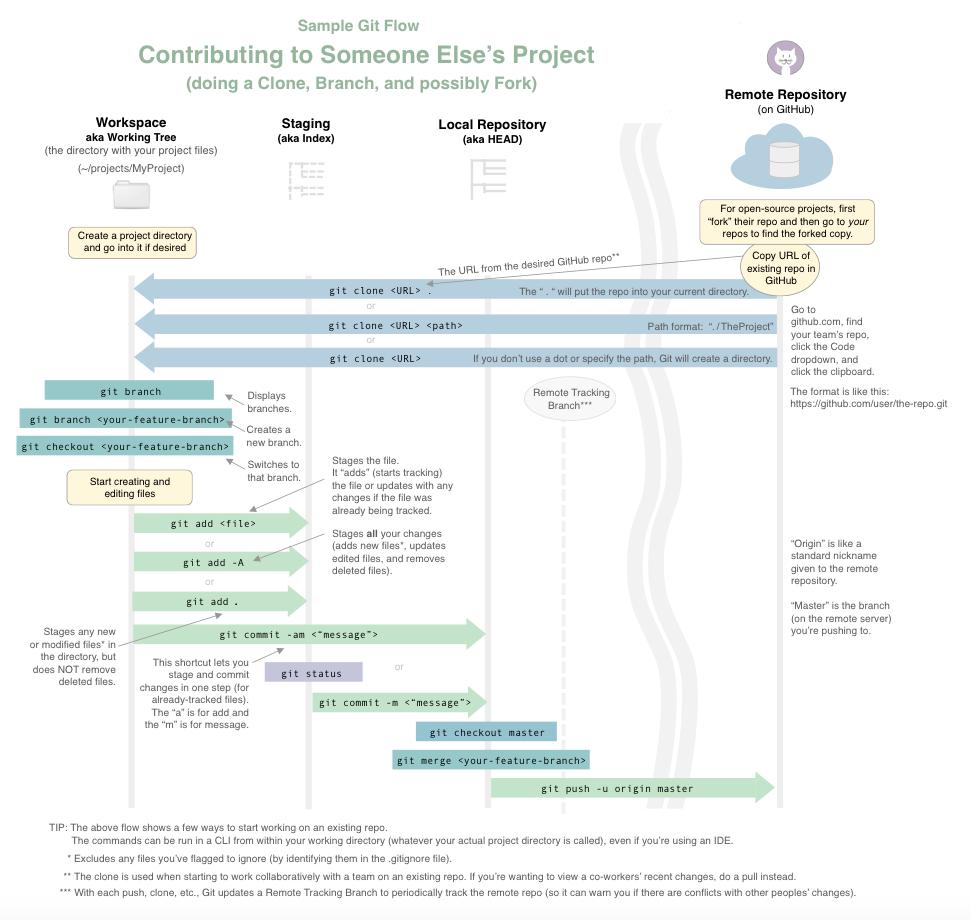
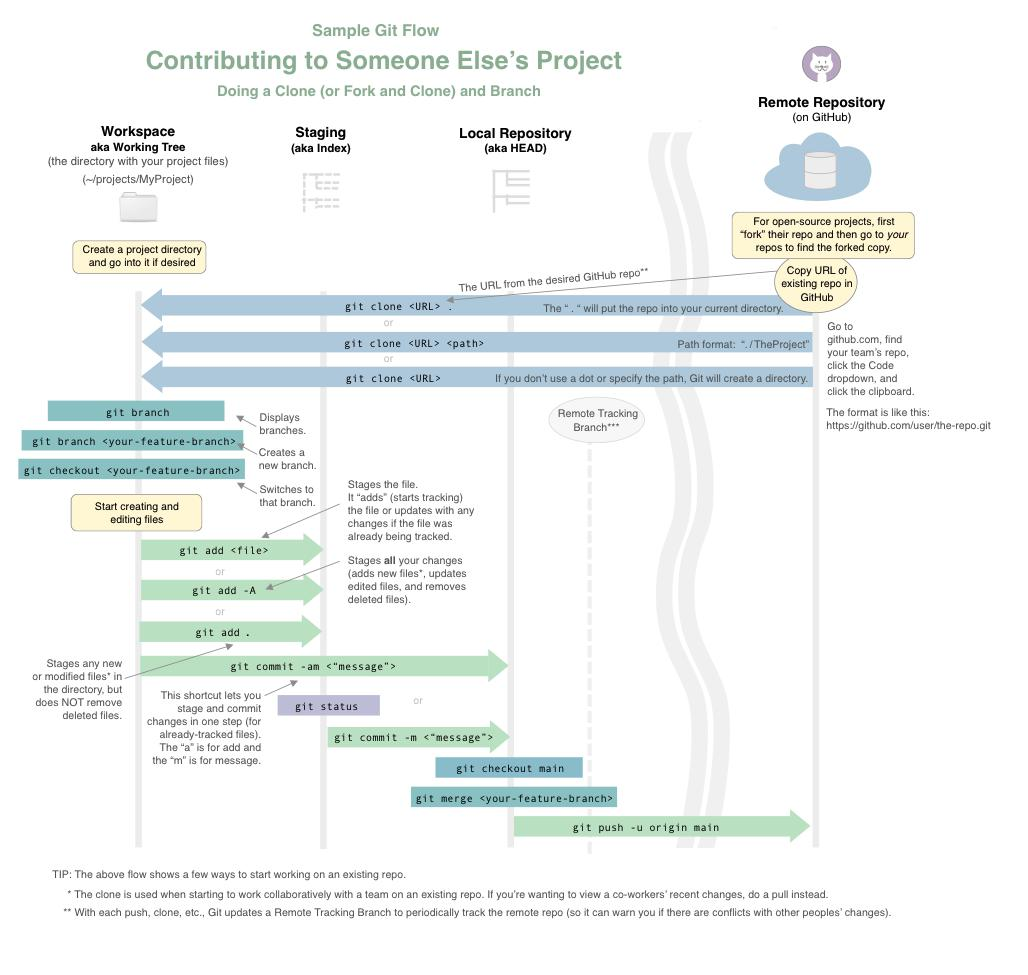
Update text/images to say main vs master

diff --git a/git_basics.html b/git_basics.html
@@ -91,20 +91,42 @@
         Git yet, you might want to skip down to the "What's a Repository and Why Do I Want One?" section. There's also a
         table at the bottom with more commands.</p>
 
+      <h2>What's a Repository and Why Do I Want One?</h2>
+
+      <p>A repository (or repo) is basically a place to store the exact set of changes you want. Your finished code can
+        sit over in a tidy pile (always ready to be deployed or shared), leaving you free to start construction on the
+        next version. With Git, you'll have a "local repo" on your computer and a "remote repo" on GitHub. Remote repos
+        can be set to either public or private, and you can specify the permissions needed.</p>
+
+      <p>The best part of Git and other version control systems (VCSs) is that if you or someone else accidentally
+        overwrites something, no problem...Git will help you get it back. Git is fairly complex, but that's so it can
+        handle most any situation that comes up, such as when hundreds of people are working on the same codebase. No
+        wonder it was created by Linus Torvalds, the same person who first came up with open-source software. When you're ready to try it out, skip down further below to see what's needed.</p>
+
       <h2>Creating a New Repository</h2>
       <p>Here's a basic flow for creating a repository (repo) for one of your own projects.</p>
       <br>
       <br>
 
-      <img src="images/gitflow_create_repo_02.jpg" width=110% alt="Git Flow Create Repo"></p>
+      <img src="images/gitflow_create_repo.jpg" width=110% alt="Git Flow Create Repo"></p>
 
+      <h2>Branching</h2>
 
+      <p>Have you ever saved different versions of the same document so that, if something goes wrong, you can easily go back to the previous version? That's essentially what branching is. It lets you store a group of changes together without updating your main branch until you're sure you're ready. This is especially helpful for situations where need to change several different related files. For example, to update this page to say "Main" instead of "Master" (to reflect GitHub's change) I'm actually changing multiple files (the HTML file and image files), and I want to keep those changes batched together. That way, it'll be easier to revert if something goes wrong when I deploy.</p>
 
-      <h2>Cloning and Branching</h2>
+      <p>If you're just working on your own repo, after you've created a branch, made changes to it, and committed the changes, you can merge your branch into main before pushing it back to the original repository on GitHub. (However, if you're working with others on a shared repository, you'll probably be asked to follow a specific review/approval process before it gets merged. In those cases, find out what their process is and do some research on pull requests, etc.) 
+      </p>
+      <br>
+      <br>
+      <img src="images/gitflow_branching_in_your_repo.jpg" width=110% alt="Git Flow Create Repo"></p>
+      <br>
+      <br>
 
-      <p>When you're ready to start contributing to a repository created by someone else (such as a co-worker or
-        friend), you'll probably want to "clone" the existing repo (so that you'll have a full copy of the repo on your
-        computer). You can then create a new "branch" for your changes. The specific steps you take depend on the branching strategy your company uses. But essentially, creating a branch gives you a place to store your new features while still retaining master separately (in case you need to make a hotfix to the code that's in production). Then when you're ready, you can merge your branch into master before pushing it back to the original repository on GitHub.</p>
+      <h2>Cloning (or Forking and Cloning)</h2>
+
+      <p>When you're ready to start contributing to someone else's repository (such as an employer or
+        friend), you'll probably want to "clone" the existing repo so that you'll have a full copy of the repo on your
+        computer. Then you'll probably want to create a new "branch" for your changes. The specific steps you take depend on the branching strategy your company uses. But essentially, creating a branch gives you a place to store your new features while still retaining the main branch (sometimes called master) separately.  </p>
       <br>
       <br>
 
@@ -117,17 +139,7 @@
         guidelines in the ReadMe file for that open-source repo in GitHub.</p>
 
 
-      <h2>What's a Repository and Why Do I Want One?</h2>
-
-      <p>A repository (or repo) is basically a place to store the exact set of changes you want. Your finished code can
-        sit over in a tidy pile (always ready to be deployed or shared), leaving you free to start construction on the
-        next version. With Git, you'll have a "local repo" on your computer and a "remote repo" on GitHub. Remote repos
-        can be set to either public or private, and you can specify the permissions needed.</p>
-
-      <p>The best part of Git and other version control systems (VCSs) is that if you or someone else accidentally
-        overwrites something, no problem...Git will help you get it back. Git is fairly complex, but that's so it can
-        handle most any situation that comes up, such as when hundreds of people are working on the same codebase. No
-        wonder it was created by Linus Torvalds, the same person who first came up with open-source software.</p>
+      <h2>Getting Started in GitHub</h2>
 
       <p>To get started, you'll need:
 
@@ -135,11 +147,11 @@
         <br>
         <br>- A GitHub account (they're free)
         <br>- A shell/CLI such as Terminal, etc. (already on Mac/Linux) or Bash (which can be installed on Windows)
-        <br>- A basic understanding of some Linux commands (so you can run commands from the right directory)
+        <br>- A basic understanding of some Linux commands (so you can run commands from the right directory, etc.)
       </p>
 
       <p>Then after a few configuration commands (see chart below), you should be ready to go. There are lots of
-        tutorials available if you get stuck.</p>
+        tutorials available, and a list of the most common commands below (with examples).</p>
 
       <!--  -->
       <br>
@@ -320,7 +332,7 @@ D0D0D0 medium gray
           </tr>
 
           <tr>
-            <td><code>git push -u origin master</code></td>
+            <td><code>git push -u origin main</code></td>
             <td>This is the command that finally pushes your code to the remote repo on GitHub.</td>
           </tr>
 
@@ -376,7 +388,7 @@ D0D0D0 medium gray
 
           <tr>
             <td><code>git branch</code></td>
-            <td>Shows branches for this repo (Master and any branches that have been made).</td>
+            <td>Shows branches for this repo (Main or Master and any branches that have been made).</td>
           </tr>
 
           <tr>
@@ -412,8 +424,8 @@ D0D0D0 medium gray
           </tr>
 
           <tr>
-            <td><code>git checkout master</code></td>
-            <td>Switches back to master. You'll do this before merging your committed branch changes into master. It's a
+            <td><code>git checkout main</code></td>
+            <td>Switches back to main. You'll do this before merging your committed branch changes into master. It's a
               good idea to run "git branch" afterwards to verify.</td>
           </tr>
 
@@ -422,7 +434,7 @@ D0D0D0 medium gray
               <br>Example:
               <br><code>git merge the-money-maker</code>
             </td>
-            <td>Merges your committed branch changes into master (or into whatever branch you're in when you run this
+            <td>Merges your committed branch changes into main (or into whatever branch you're in when you run this
               command). Then you'll probably want to push to the remote repo.</td>
           </tr>
 
